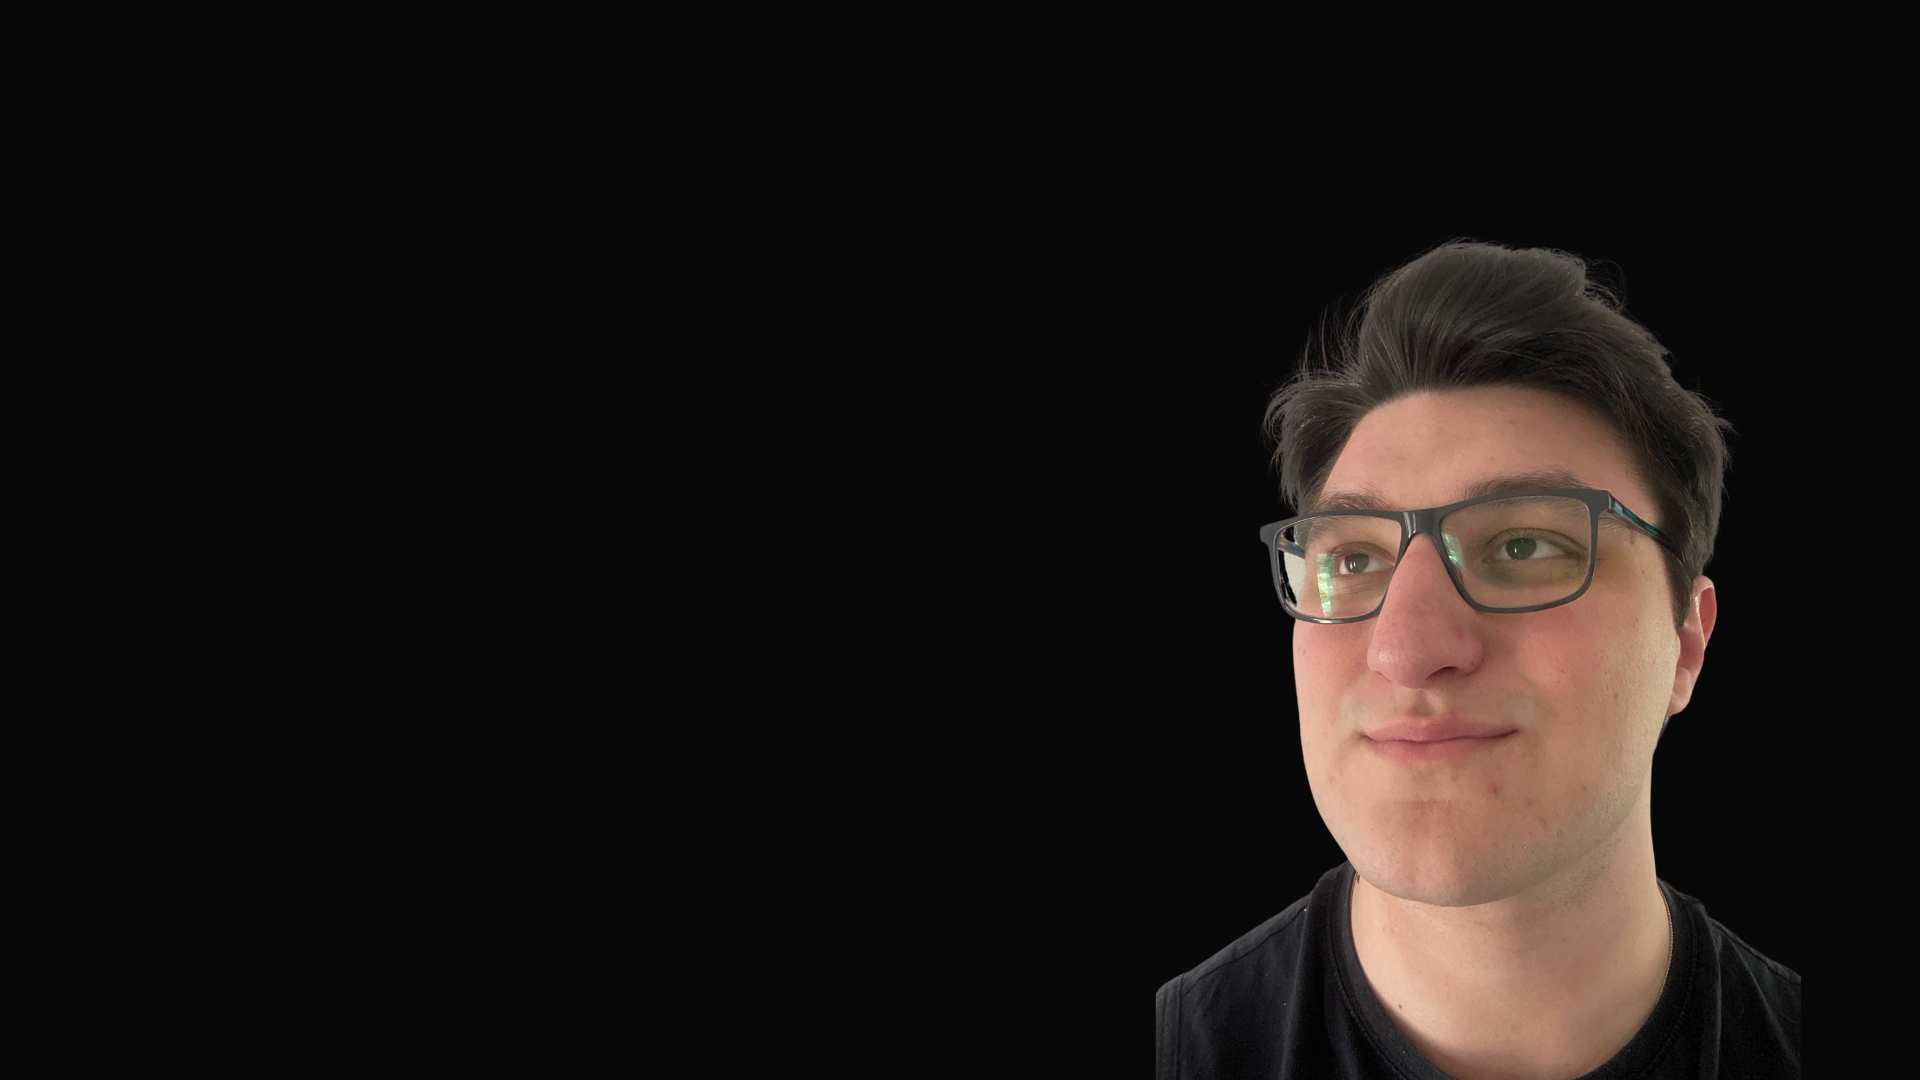
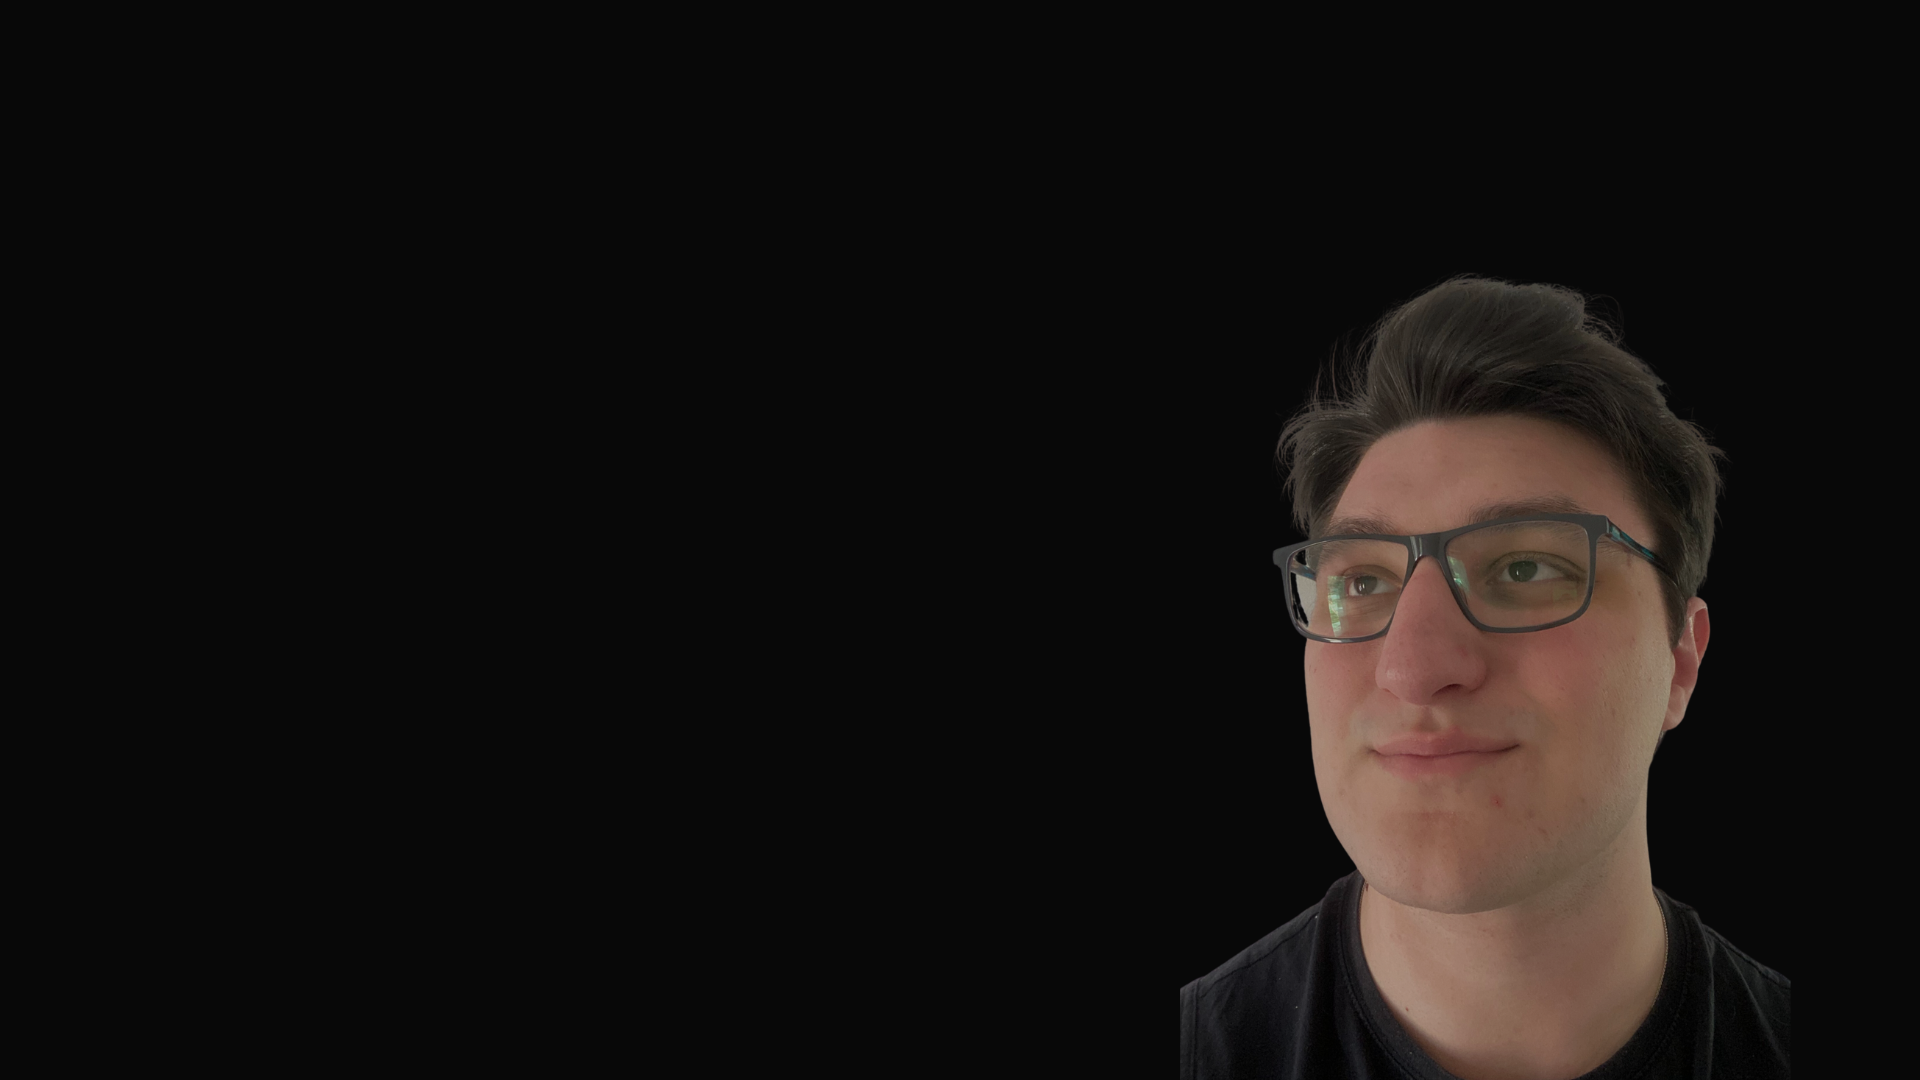
Borre cosas innecesarias y limpie el codigo

Changed region(s): [[0.5938, 0.2139, 0.9062, 1.0], [0.9062, 0.8861, 0.9375, 0.9167]]

diff --git a/style.css b/style.css
@@ -15,8 +15,7 @@ body{
 #header{
     width: 100%;
     height: 100vh;
-    background-image: url(images/backgroundPhoto4.png);
-
+    background-image: url(images/backgroundPhoto.png);
     background-size: auto;
     background-position: center;
 }
